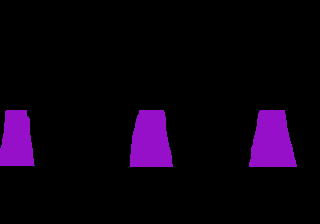
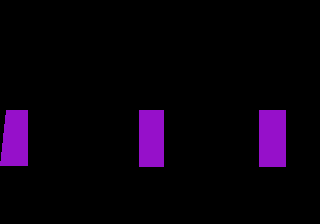
improved masks

diff --git a/ej8.colors/src/main.c b/ej8.colors/src/main.c
@@ -44,7 +44,7 @@ int main()
     index+=bg_color1.tileset->numTile;
     zera_x=5;
     zera_y=134;
-    zera = SPR_addSprite(&zera_spr,zera_x,zera_y,TILE_ATTR(PAL1,TRUE,FALSE,FALSE));
+    zera = SPR_addSprite(&zera_spr,zera_x,zera_y,TILE_ATTR(PAL1,FALSE,FALSE,FALSE));
     VDP_setPalette(PAL1,zera_spr.palette->data);
     SPR_setAnim(zera,ZERA_IDLE);
     fire_x=321;
